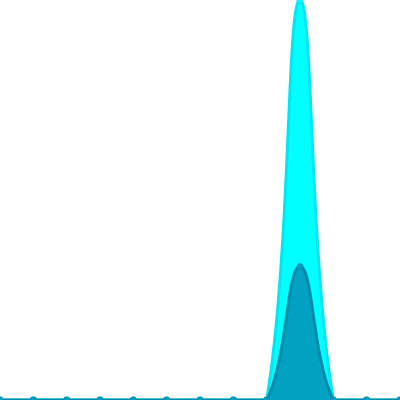
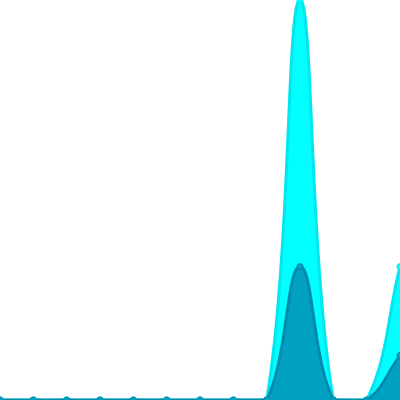
Update views

Changed region(s): [[0.9, 0.66, 1.0, 1.0]]

diff --git a/readme/381924543/year.md b/readme/381924543/year.md
@@ -23,10 +23,10 @@
 			<code>2022/2/1</code>
 		</td>
 		<td>
-			<code>0</code>
+			<code>1</code>
 		</td>
 		<td>
-			<code>0</code>
+			<code>3</code>
 		</td>
 	</tr>
 	<tr>
@@ -164,7 +164,7 @@
 </table>
 
 </details>
-<small><i>Last updated on 2022/2/4 12:29 PM UTC</i></small>
+<small><i>Last updated on 2022/2/4 6:21 PM UTC</i></small>
 
 ## ✂Copy and 📋 Paste
 ### SVG Badge

diff --git a/README.md b/README.md
@@ -149,7 +149,7 @@ The project created and maintained by [gayanvoice](https://github.com/gayanvoice
 	</tr>
 </table>
 
-<small><i>Last updated on 2022/2/4 12:29 PM UTC</i></small>
+<small><i>Last updated on 2022/2/4 6:21 PM UTC</i></small>
 
 ## ✂Copy and 📋 Paste
 ### Total Views Badge

diff --git a/readme/348337317/year.md b/readme/348337317/year.md
@@ -164,7 +164,7 @@
 </table>
 
 </details>
-<small><i>Last updated on 2022/2/4 12:28 PM UTC</i></small>
+<small><i>Last updated on 2022/2/4 6:20 PM UTC</i></small>
 
 ## ✂Copy and 📋 Paste
 ### SVG Badge

diff --git a/readme/350683139/year.md b/readme/350683139/year.md
@@ -164,7 +164,7 @@
 </table>
 
 </details>
-<small><i>Last updated on 2022/2/4 12:29 PM UTC</i></small>
+<small><i>Last updated on 2022/2/4 6:21 PM UTC</i></small>
 
 ## ✂Copy and 📋 Paste
 ### SVG Badge

diff --git a/readme/385501407/year.md b/readme/385501407/year.md
@@ -164,7 +164,7 @@
 </table>
 
 </details>
-<small><i>Last updated on 2022/2/4 12:28 PM UTC</i></small>
+<small><i>Last updated on 2022/2/4 6:21 PM UTC</i></small>
 
 ## ✂Copy and 📋 Paste
 ### SVG Badge

diff --git a/readme/385502222/year.md b/readme/385502222/year.md
@@ -164,7 +164,7 @@
 </table>
 
 </details>
-<small><i>Last updated on 2022/2/4 12:28 PM UTC</i></small>
+<small><i>Last updated on 2022/2/4 6:20 PM UTC</i></small>
 
 ## ✂Copy and 📋 Paste
 ### SVG Badge

diff --git a/readme/421063547/year.md b/readme/421063547/year.md
@@ -164,7 +164,7 @@
 </table>
 
 </details>
-<small><i>Last updated on 2022/2/4 12:28 PM UTC</i></small>
+<small><i>Last updated on 2022/2/4 6:20 PM UTC</i></small>
 
 ## ✂Copy and 📋 Paste
 ### SVG Badge

diff --git a/readme/421164512/year.md b/readme/421164512/year.md
@@ -164,7 +164,7 @@
 </table>
 
 </details>
-<small><i>Last updated on 2022/2/4 12:28 PM UTC</i></small>
+<small><i>Last updated on 2022/2/4 6:20 PM UTC</i></small>
 
 ## ✂Copy and 📋 Paste
 ### SVG Badge

diff --git a/readme/422092179/year.md b/readme/422092179/year.md
@@ -164,7 +164,7 @@
 </table>
 
 </details>
-<small><i>Last updated on 2022/2/4 12:28 PM UTC</i></small>
+<small><i>Last updated on 2022/2/4 6:20 PM UTC</i></small>
 
 ## ✂Copy and 📋 Paste
 ### SVG Badge
